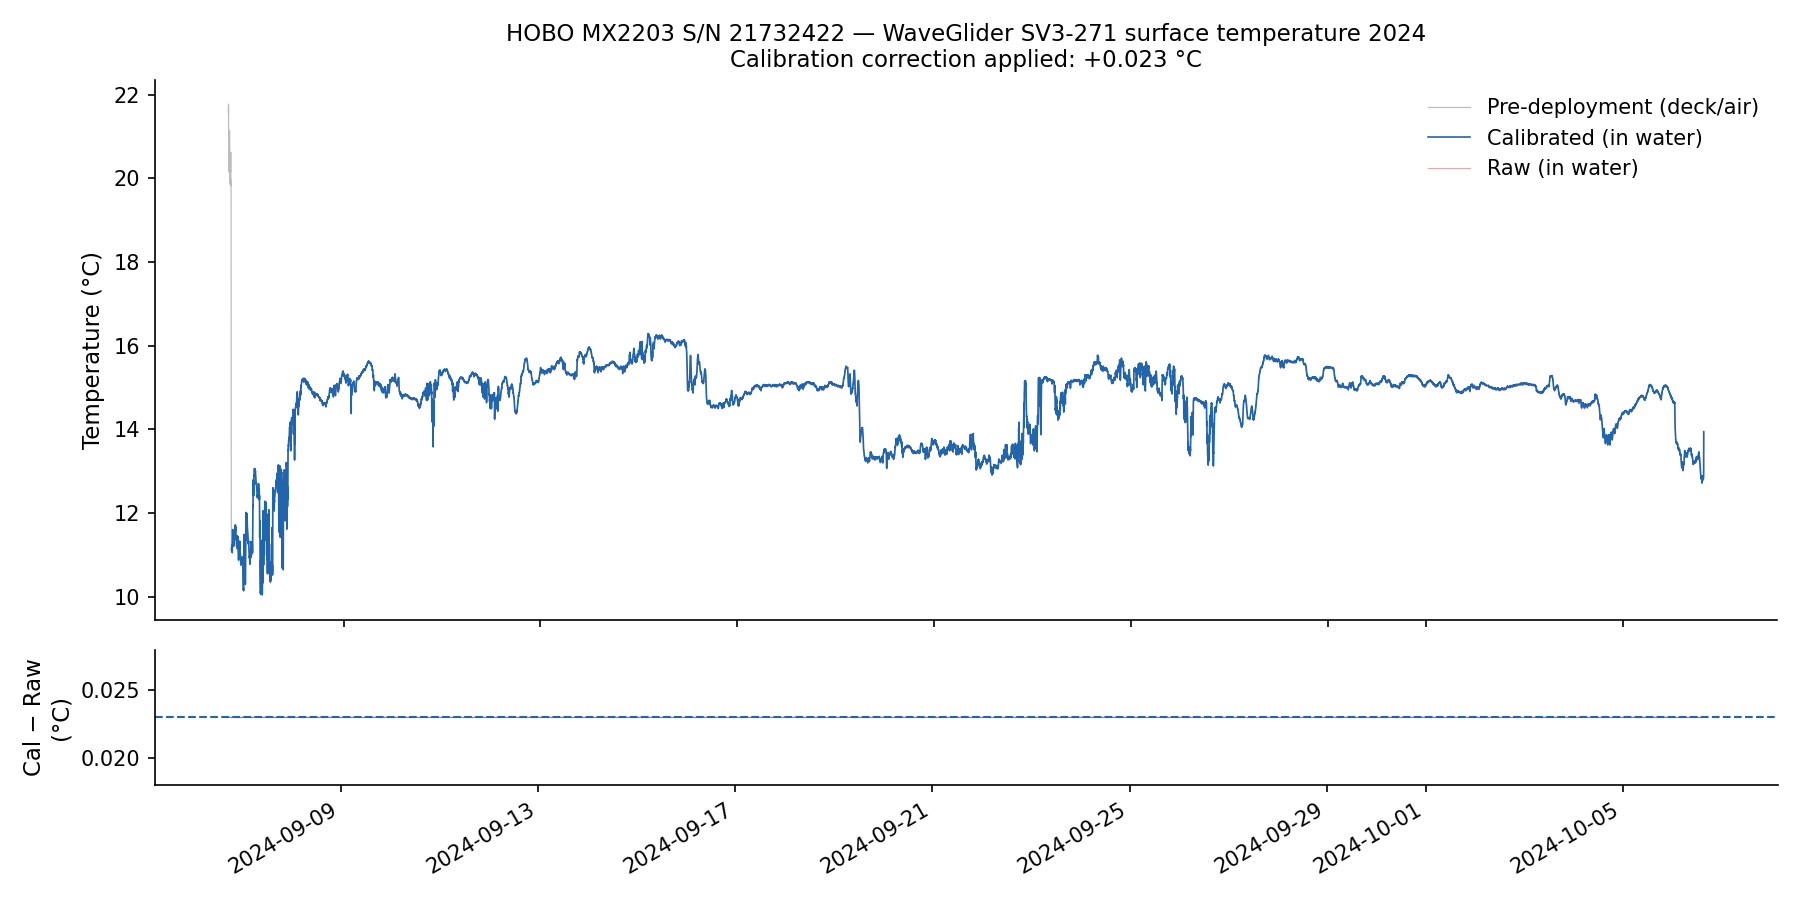
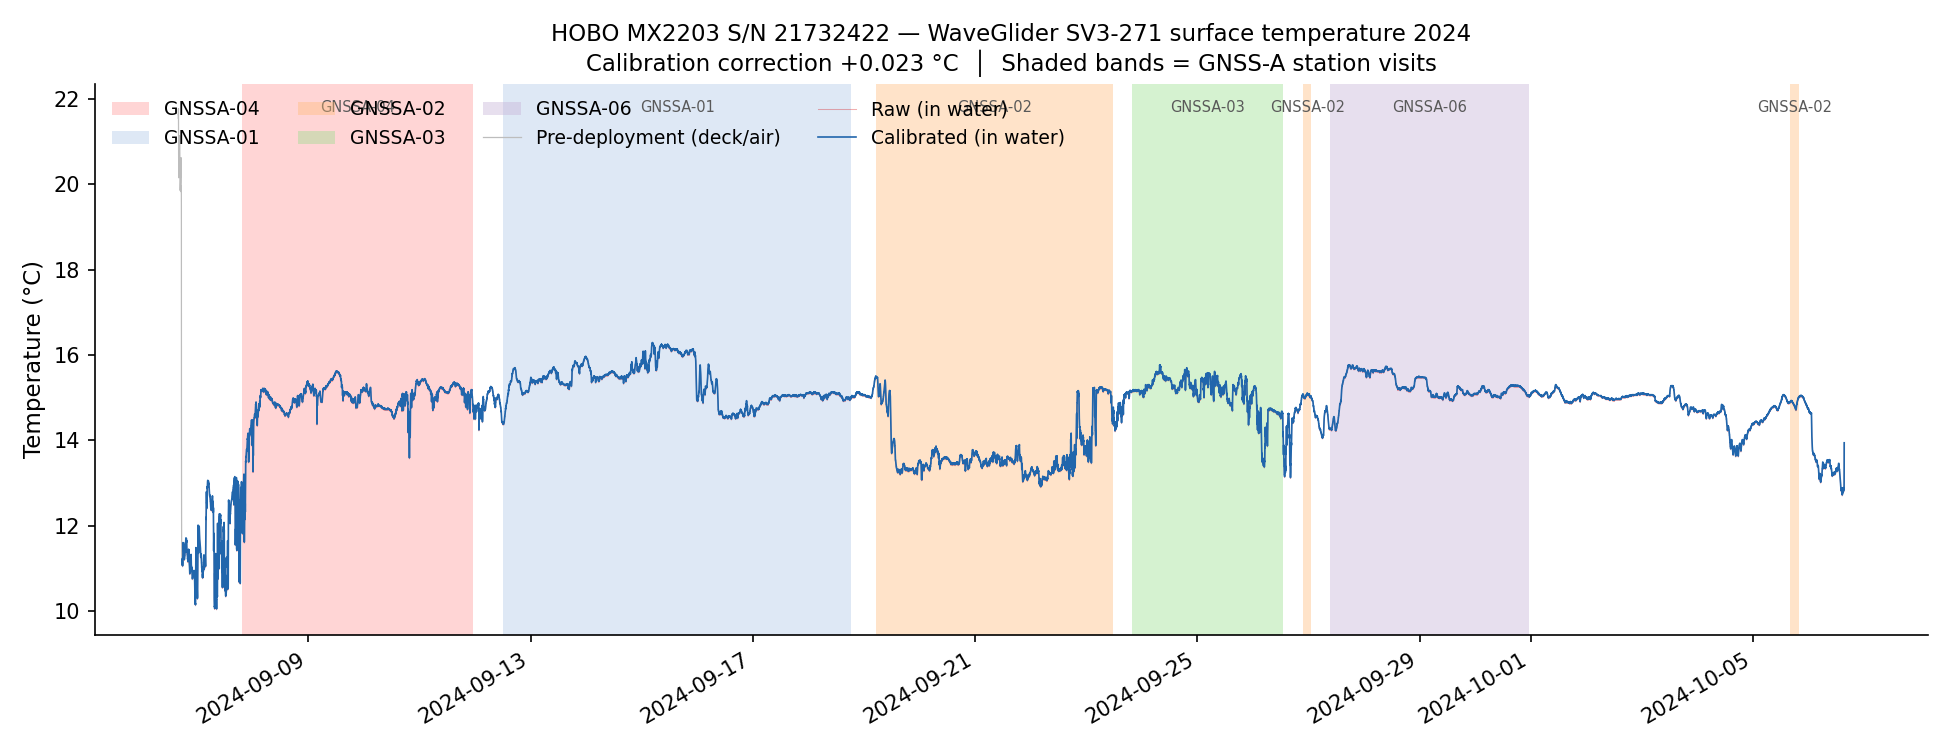
fig: rework all four deployment/calibration figures
Fig 1: remove diff panel; shade GNSS-A station-visit periods from telemetry proximity
Fig 2: add heating/cooling phase shading; annotate HOBO thermal-lag lead/lag behaviour
Fig 3: zoom y-axis to equilibrated range (warmup spike was dominating); add phase shading
Fig 4: replace 1:1 scatter with residual plot (HOBO-CTD vs T, warming/cooling split)

Also adds compute_station_intervals() + haversine_km() helpers and GNSSA_SITES_2024
constant with 2024-epoch centroids for all five visited sites (04, 01, 02, 03, 06).

diff --git a/process_temp_logger.py b/process_temp_logger.py
@@ -53,6 +53,25 @@ SBE_ACCURACY_C    = 0.005  # SBE CTD 19p stated accuracy (°C, 1σ)
 SST_MAX_C              = 17.0   # max plausible Sep SST at GNSSA-03; above = deck/air
 COOLING_RATE_C_PER_MIN = 0.05   # |dT/dt| threshold for "still equilibrating to water"
 
+# GNSS-A station centroids visited during the 2024 survey (lat, lon)
+# 2024-epoch positions from sites_out.csv; ordered by survey date.
+GNSSA_SITES_2024 = {
+    "GNSSA-04": (48.2709, -126.4357),   # ~Sep  8
+    "GNSSA-01": (48.1802, -127.1924),   # ~Sep 13
+    "GNSSA-02": (48.5574, -127.1655),   # ~Sep 19
+    "GNSSA-03": (48.7149, -126.8431),   # ~Sep 24
+    "GNSSA-06": (48.8482, -127.4685),   # ~Sep 28
+}
+ON_SITE_RADIUS_KM = 6.0
+
+SITE_COLORS = {
+    "GNSSA-01": "#aec7e8",
+    "GNSSA-02": "#ffbb78",
+    "GNSSA-03": "#98df8a",
+    "GNSSA-04": "#ff9896",
+    "GNSSA-06": "#c5b0d5",
+}
+
 # ── loaders ───────────────────────────────────────────────────────────────────
 
 def load_hobo_deployment(path: Path) -> pd.DataFrame:
@@ -120,6 +139,10 @@ def compute_calibration(hobo_cal: pd.DataFrame, ctd_hz: pd.DataFrame,
     t0 = merged["datetime_utc"].iloc[0]
     merged["elapsed_min"] = (merged["datetime_utc"] - t0).dt.total_seconds() / 60.0
 
+    # Heating/cooling phase: sign of 5-min smoothed CTD slope
+    ctd_smooth = merged["ctd_c"].rolling(5, center=True, min_periods=1).mean()
+    merged["phase"] = np.where(ctd_smooth.diff() >= 0, "heating", "cooling")
+
     equil   = merged.iloc[skip_min:-1].copy()
     applied = round(float(equil["diff"].median()), 3)
 
@@ -179,6 +202,59 @@ def interpolate_position(deploy: pd.DataFrame, telemetry: pd.DataFrame) -> pd.Da
     return out
 
 
+# ── station proximity ─────────────────────────────────────────────────────────
+
+def haversine_km(lat1: np.ndarray, lon1: np.ndarray,
+                 lat2: float, lon2: float) -> np.ndarray:
+    R = 6371.0
+    dlat = np.radians(lat2 - lat1)
+    dlon = np.radians(lon2 - lon1)
+    a = (np.sin(dlat / 2) ** 2
+         + np.cos(np.radians(lat1)) * np.cos(np.radians(lat2)) * np.sin(dlon / 2) ** 2)
+    return 2 * R * np.arcsin(np.sqrt(a))
+
+
+def compute_station_intervals(
+    telemetry: pd.DataFrame,
+    sites: dict = GNSSA_SITES_2024,
+    radius_km: float = ON_SITE_RADIUS_KM,
+) -> list[tuple[str, pd.Timestamp, pd.Timestamp]]:
+    """Return (site_name, t_start, t_end) for each contiguous on-site period."""
+    raw_intervals: list[tuple[str, pd.Timestamp, pd.Timestamp]] = []
+    for site_name, (lat0, lon0) in sites.items():
+        dist = haversine_km(
+            telemetry["latitude_deg"].values, telemetry["longitude_deg"].values,
+            lat0, lon0,
+        )
+        on_site = dist <= radius_km
+        changes = np.diff(on_site.astype(int), prepend=0, append=0)
+        starts  = np.where(changes == 1)[0]
+        ends    = np.where(changes == -1)[0]
+        for s, e in zip(starts, ends):
+            t0 = telemetry["datetime_utc"].iloc[s]
+            t1 = telemetry["datetime_utc"].iloc[min(e, len(telemetry) - 1)]
+            if t1 > t0:
+                raw_intervals.append((site_name, t0, t1))
+
+    # Merge fragments for the same site that are within 30 min of each other
+    from collections import defaultdict
+    by_site: dict[str, list[tuple]] = defaultdict(list)
+    for name, t0, t1 in raw_intervals:
+        by_site[name].append((t0, t1))
+    merged_intervals = []
+    for name, segs in by_site.items():
+        segs.sort()
+        cur_t0, cur_t1 = segs[0]
+        for t0, t1 in segs[1:]:
+            if (t0 - cur_t1).total_seconds() / 60 <= 30:
+                cur_t1 = max(cur_t1, t1)
+            else:
+                merged_intervals.append((name, cur_t0, cur_t1))
+                cur_t0, cur_t1 = t0, t1
+        merged_intervals.append((name, cur_t0, cur_t1))
+    return merged_intervals
+
+
 # ── figures ───────────────────────────────────────────────────────────────────
 
 RC = {
@@ -195,40 +271,60 @@ COL_CAL    = "#2166ac"
 COL_CTD    = "#1a9641"
 COL_WARM   = "#fee090"
 COL_PREDEP = "#bdbdbd"
+COL_HEAT   = "#fdae61"   # warm orange — heating phase
+COL_COOL   = "#abd9e9"   # cool blue  — cooling phase
 
 
-def fig_deployment(deploy: pd.DataFrame, applied_offset: float, out: Path) -> None:
+def _shade_phases(ax, elapsed_min: pd.Series, phase: pd.Series) -> None:
+    """Background bands for heating / cooling phases (axes-space y so ylim-independent)."""
+    heat = (phase == "heating").values
+    ax.fill_between(elapsed_min.values, 0, 1, where=heat,
+                    alpha=0.12, color=COL_HEAT,
+                    transform=ax.get_xaxis_transform(),
+                    label="Warming phase", zorder=0)
+    ax.fill_between(elapsed_min.values, 0, 1, where=~heat,
+                    alpha=0.12, color=COL_COOL,
+                    transform=ax.get_xaxis_transform(),
+                    label="Cooling phase", zorder=0)
+
+
+def fig_deployment(deploy: pd.DataFrame, applied_offset: float,
+                   site_intervals: list, out: Path) -> None:
     inw = deploy[deploy["deployment_state"] == "in_water"]
     pre = deploy[deploy["deployment_state"] == "pre_water"]
 
     with plt.style.context(RC):
-        fig, axes = plt.subplots(2, 1, figsize=(12, 6), gridspec_kw={"height_ratios": [4, 1]})
+        fig, ax = plt.subplots(figsize=(13, 5))
 
-        ax = axes[0]
+        # Station visit bands (lowest z-order)
+        labeled: set[str] = set()
+        for site_name, t0, t1 in sorted(site_intervals, key=lambda x: x[1]):
+            lbl = site_name if site_name not in labeled else "_nolegend_"
+            ax.axvspan(t0, t1, color=SITE_COLORS.get(site_name, "#dddddd"),
+                       alpha=0.40, lw=0, label=lbl, zorder=0)
+            labeled.add(site_name)
+            mid = t0 + (t1 - t0) / 2
+            ax.text(mid, 0.97, site_name,
+                    transform=ax.get_xaxis_transform(),
+                    ha="center", va="top", fontsize=7, color="0.35", clip_on=True)
+
         if not pre.empty:
             ax.plot(pre["datetime_utc"], pre["temp_c_calibrated"],
                     lw=0.6, color=COL_PREDEP, label="Pre-deployment (deck/air)", zorder=1)
+        ax.plot(inw["datetime_utc"], inw["temp_c_raw"],
+                lw=0.5, color=COL_RAW, alpha=0.35, label="Raw (in water)", zorder=2)
         ax.plot(inw["datetime_utc"], inw["temp_c_calibrated"],
                 lw=0.8, color=COL_CAL, label="Calibrated (in water)", zorder=3)
-        ax.plot(inw["datetime_utc"], inw["temp_c_raw"],
-                lw=0.5, color=COL_RAW, alpha=0.4, label="Raw (in water)", zorder=2)
+
         ax.set_ylabel("Temperature (°C)")
         ax.set_title(
             "HOBO MX2203 S/N 21732422 — WaveGlider SV3-271 surface temperature 2024\n"
-            f"Calibration correction applied: +{applied_offset:.3f} °C"
+            f"Calibration correction +{applied_offset:.3f} °C  │  "
+            "Shaded bands = GNSS-A station visits"
         )
         ax.xaxis.set_major_formatter(mdates.DateFormatter("%Y-%m-%d"))
         fig.autofmt_xdate(rotation=30, ha="right")
-        ax.legend(frameon=False)
-
-        ax2 = axes[1]
-        ax2.plot(inw["datetime_utc"],
-                 inw["temp_c_calibrated"] - inw["temp_c_raw"],
-                 lw=0.6, color="0.5")
-        ax2.axhline(applied_offset, color=COL_CAL, lw=1.0, ls="--")
-        ax2.set_ylabel("Cal − Raw\n(°C)")
-        ax2.set_ylim(applied_offset - 0.005, applied_offset + 0.005)
-        ax2.xaxis.set_major_formatter(mdates.DateFormatter("%Y-%m-%d"))
+        ax.legend(frameon=False, fontsize=9, ncol=4, loc="upper left")
 
         fig.tight_layout()
         fig.savefig(out)
@@ -238,19 +334,22 @@ def fig_deployment(deploy: pd.DataFrame, applied_offset: float, out: Path) -> No
 def fig_calibration_comparison(merged: pd.DataFrame, skip_min: int, out: Path) -> None:
     with plt.style.context(RC):
         fig, ax = plt.subplots(figsize=(12, 4))
-        ax.axvspan(0, skip_min, color=COL_WARM, alpha=0.5,
-                   label=f"Warmup excluded (< {skip_min} min)")
+        _shade_phases(ax, merged["elapsed_min"], merged["phase"])
+        ax.axvspan(0, skip_min, color=COL_WARM, alpha=0.55,
+                   label=f"Warmup excluded (< {skip_min} min)", zorder=1)
         ax.plot(merged["elapsed_min"], merged["ctd_c"],
-                lw=1.2, color=COL_CTD, label="SBE CTD reference (1 Hz, resampled to 1 min)")
+                lw=1.2, color=COL_CTD, label="SBE CTD reference (1 Hz → 1 min)", zorder=3)
         ax.plot(merged["elapsed_min"], merged["hobo_c"],
-                lw=1.0, color=COL_RAW, ls="--", label="HOBO raw (1 min)")
+                lw=1.0, color=COL_RAW, ls="--", label="HOBO raw (1 min)", zorder=3)
         ax.set_xlabel("Time since tank immersion (min)")
         ax.set_ylabel("Temperature (°C)")
         ax.set_title(
-            "Tank calibration: HOBO MX2203 vs SBE CTD 19p S/N 7036\n"
-            "ONC Integration Testing facility, 2024-11-05 to 2024-11-07"
+            "Tank calibration: HOBO MX2203 vs SBE CTD 19p S/N 7036  —  "
+            "ONC Integration Testing, 2024-11-05 to 2024-11-07\n"
+            "HOBO thermal lag (τ ≈ 5 min): CTD leads HOBO on warming and cooling — "
+            "asymmetric sampling of heating/cooling biases the median offset"
         )
-        ax.legend(frameon=False)
+        ax.legend(frameon=False, ncol=3)
         fig.tight_layout()
         fig.savefig(out)
         plt.close(fig)
@@ -260,43 +359,72 @@ def fig_calibration_offset(merged: pd.DataFrame, cal: dict, out: Path) -> None:
     skip    = cal["equilibration_period_min"]
     applied = cal["applied_offset_c"]
     std     = cal["offset_std_c"]
+
+    # Zoom y to equilibrated region; warmup spike is large negative and off-scale
+    equil_diff = merged["diff"].iloc[skip:-1]
+    ylo = equil_diff.quantile(0.005) - 0.015
+    yhi = equil_diff.quantile(0.995) + 0.015
+    spike_val = merged["diff"].iloc[0]
+
     with plt.style.context(RC):
         fig, ax = plt.subplots(figsize=(12, 4))
-        ax.axvspan(0, skip, color=COL_WARM, alpha=0.5,
-                   label=f"Warmup excluded (< {skip} min)")
+        _shade_phases(ax, merged["elapsed_min"], merged["phase"])
+        ax.axvspan(0, skip, color=COL_WARM, alpha=0.55,
+                   label=f"Warmup excluded (< {skip} min)", zorder=1)
         ax.plot(merged["elapsed_min"], merged["diff"],
-                lw=0.7, color="0.5", label="CTD − HOBO (°C)")
+                lw=0.7, color="0.5", label="CTD − HOBO (°C)", zorder=3)
         ax.axhline(0, color="0.7", lw=0.8, ls=":")
         ax.axhline(applied, color=COL_CAL, lw=1.5, ls="--",
-                   label=f"Applied offset = +{applied:.3f} °C (median of equilibrated)")
+                   label=f"Applied offset +{applied:.3f} °C (median, equilibrated)", zorder=4)
         ax.axhspan(applied - std, applied + std, color=COL_CAL, alpha=0.15,
-                   label=f"±1σ = ±{std:.3f} °C")
+                   label=f"±1σ = ±{std:.3f} °C", zorder=2)
         ax.axvline(skip, color=COL_RAW, lw=1.0, ls=":", alpha=0.6)
+        ax.set_ylim(ylo, yhi)
+        ax.text(0.01, 0.04,
+                f"Initial warmup spike ({spike_val:.1f} °C) is off scale",
+                transform=ax.transAxes, fontsize=8, color="0.45")
         ax.set_xlabel("Time since tank immersion (min)")
         ax.set_ylabel("CTD − HOBO (°C)")
-        ax.set_title("Calibration offset convergence — HOBO reads cold at equilibrium")
-        ax.legend(frameon=False)
+        ax.set_title(
+            "Calibration offset convergence — y-axis clipped to equilibrated range\n"
+            "Bias from unequal heating/cooling sampling is visible in the oscillation envelope"
+        )
+        ax.legend(frameon=False, ncol=2)
         fig.tight_layout()
         fig.savefig(out)
         plt.close(fig)
 
 
-def fig_calibration_scatter(equil: pd.DataFrame, applied_offset: float, out: Path) -> None:
-    x     = equil["ctd_c"].values
-    y_raw = equil["hobo_c"].values
-    y_cal = y_raw + applied_offset
-    lo = min(x.min(), y_raw.min()) - 0.02
-    hi = max(x.max(), y_cal.max()) + 0.02
+def fig_calibration_residual(equil: pd.DataFrame, applied_offset: float, out: Path) -> None:
+    """HOBO − CTD residuals vs temperature, split by heating/cooling phase."""
+    x       = equil["ctd_c"].values
+    res_raw = equil["hobo_c"].values - x
+    res_cal = res_raw + applied_offset
+    heat    = (equil["phase"].values == "heating")
+
+    p     = np.polyfit(x, res_cal, 1)
+    x_fit = np.linspace(x.min(), x.max(), 200)
+
     with plt.style.context(RC):
-        fig, ax = plt.subplots(figsize=(5, 5))
-        ax.scatter(x, y_raw, s=3, alpha=0.25, color=COL_RAW, label="HOBO raw")
-        ax.scatter(x, y_cal, s=3, alpha=0.25, color=COL_CAL, label="HOBO calibrated")
-        ax.plot([lo, hi], [lo, hi], "k--", lw=0.8, label="1:1 line")
-        ax.set_xlim(lo, hi); ax.set_ylim(lo, hi)
-        ax.set_xlabel("SBE CTD reference (°C)")
-        ax.set_ylabel("HOBO temperature (°C)")
-        ax.set_title("Calibration scatter — equilibrated region only")
-        ax.legend(frameon=False, markerscale=3)
+        fig, ax = plt.subplots(figsize=(7, 5))
+        ax.scatter(x[~heat], res_raw[~heat], s=3, alpha=0.15,
+                   color=COL_COOL, label="Before cal — cooling")
+        ax.scatter(x[heat],  res_raw[heat],  s=3, alpha=0.15,
+                   color=COL_HEAT, label="Before cal — warming")
+        ax.scatter(x[~heat], res_cal[~heat], s=4, alpha=0.35,
+                   color="#4393c3", label="After cal — cooling")
+        ax.scatter(x[heat],  res_cal[heat],  s=4, alpha=0.35,
+                   color="#d6604d", label="After cal — warming")
+        ax.axhline(0, color="0.3", lw=0.8, ls="--", label="Zero residual")
+        ax.plot(x_fit, np.polyval(p, x_fit), color="0.4", lw=1.2, ls=":",
+                label=f"Linear fit (after cal): slope {p[0]:.4f} °C/°C")
+        ax.set_xlabel("SBE CTD reference temperature (°C)")
+        ax.set_ylabel("HOBO − CTD  (°C)")
+        ax.set_title(
+            "Calibration residuals — equilibrated region\n"
+            "Warming/cooling split reveals thermal-lag bias in the applied offset"
+        )
+        ax.legend(frameon=False, fontsize=8, markerscale=2.5, ncol=2)
         fig.tight_layout()
         fig.savefig(out)
         plt.close(fig)
@@ -484,8 +612,9 @@ FILES
   figures/03_calibration_offset_convergence.png
         CTD-HOBO difference vs time, showing warmup and equilibrium.
 
-  figures/04_calibration_scatter.png
-        HOBO (raw and calibrated) vs CTD scatter, equilibrated region.
+  figures/04_calibration_residuals.png
+        HOBO minus CTD residuals vs CTD temperature, equilibrated region,
+        split into heating and cooling phases to show thermal-lag bias.
 
   figures/05_deployment_track_temperature.png
         WaveGlider track coloured by calibrated SST (in-water only).
@@ -615,6 +744,12 @@ def main() -> None:
     telemetry = load_telemetry(TELEMETRY_CSV)
     print(f"  {len(telemetry):,} valid rows")
 
+    print("Computing station on-site intervals …")
+    site_intervals = compute_station_intervals(telemetry)
+    for name, t0, t1 in sorted(site_intervals, key=lambda x: x[1]):
+        dur_h = (t1 - t0).total_seconds() / 3600
+        print(f"  {name}: {t0.strftime('%Y-%m-%d %H:%M')} → {t1.strftime('%Y-%m-%d %H:%M')} ({dur_h:.1f} h)")
+
     # ── calibration ───────────────────────────────────────────────────────────
     print("\nComputing calibration offset …")
     cal_all = compute_calibration(hobo_cal, ctd, skip_min=EQUILIBRATION_MIN)
@@ -646,10 +781,13 @@ def main() -> None:
     # ── figures ───────────────────────────────────────────────────────────────
     print("\nGenerating figures …")
     fig_dir = OUT_DIR / "figures"
-    fig_deployment(deploy, cal["applied_offset_c"], fig_dir / "01_deployment_timeseries.png")
-    fig_calibration_comparison(merged, EQUILIBRATION_MIN, fig_dir / "02_calibration_comparison_timeseries.png")
+    fig_deployment(deploy, cal["applied_offset_c"], site_intervals,
+                   fig_dir / "01_deployment_timeseries.png")
+    fig_calibration_comparison(merged, EQUILIBRATION_MIN,
+                               fig_dir / "02_calibration_comparison_timeseries.png")
     fig_calibration_offset(merged, cal, fig_dir / "03_calibration_offset_convergence.png")
-    fig_calibration_scatter(equil, cal["applied_offset_c"], fig_dir / "04_calibration_scatter.png")
+    fig_calibration_residual(equil, cal["applied_offset_c"],
+                             fig_dir / "04_calibration_residuals.png")
     fig_track_temperature(deploy, fig_dir / "05_deployment_track_temperature.png")
 
     # ── CSV ───────────────────────────────────────────────────────────────────